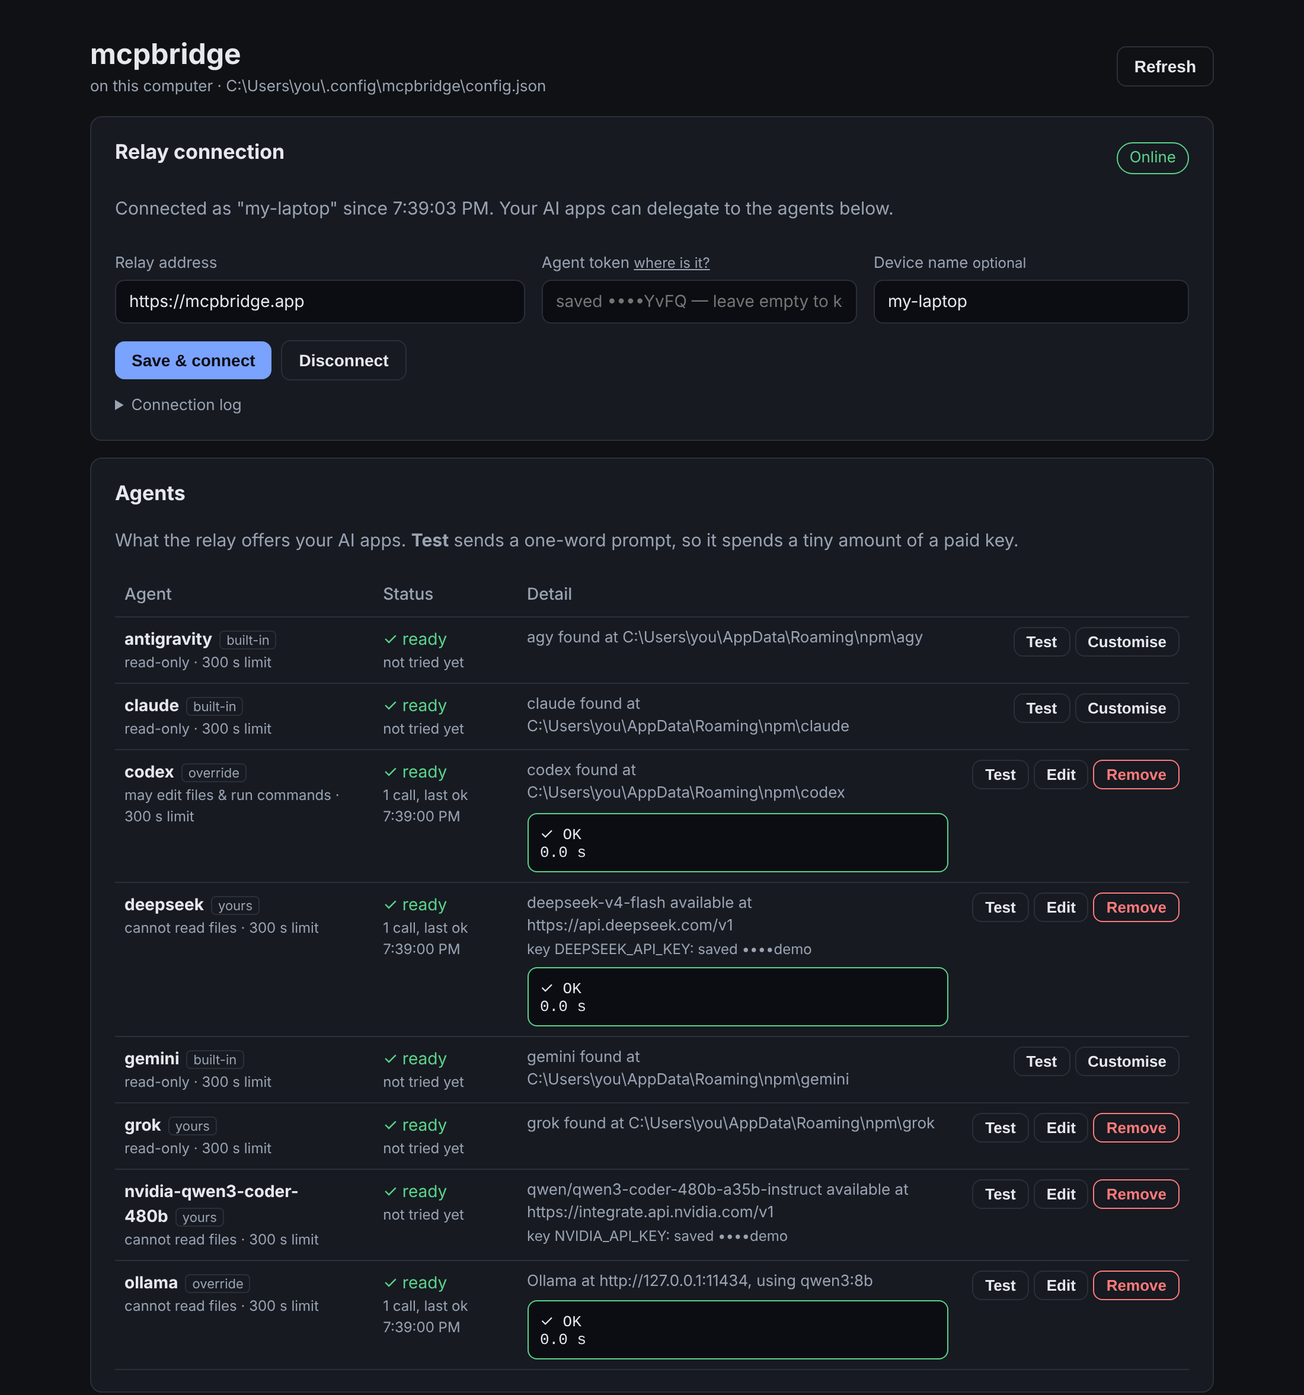
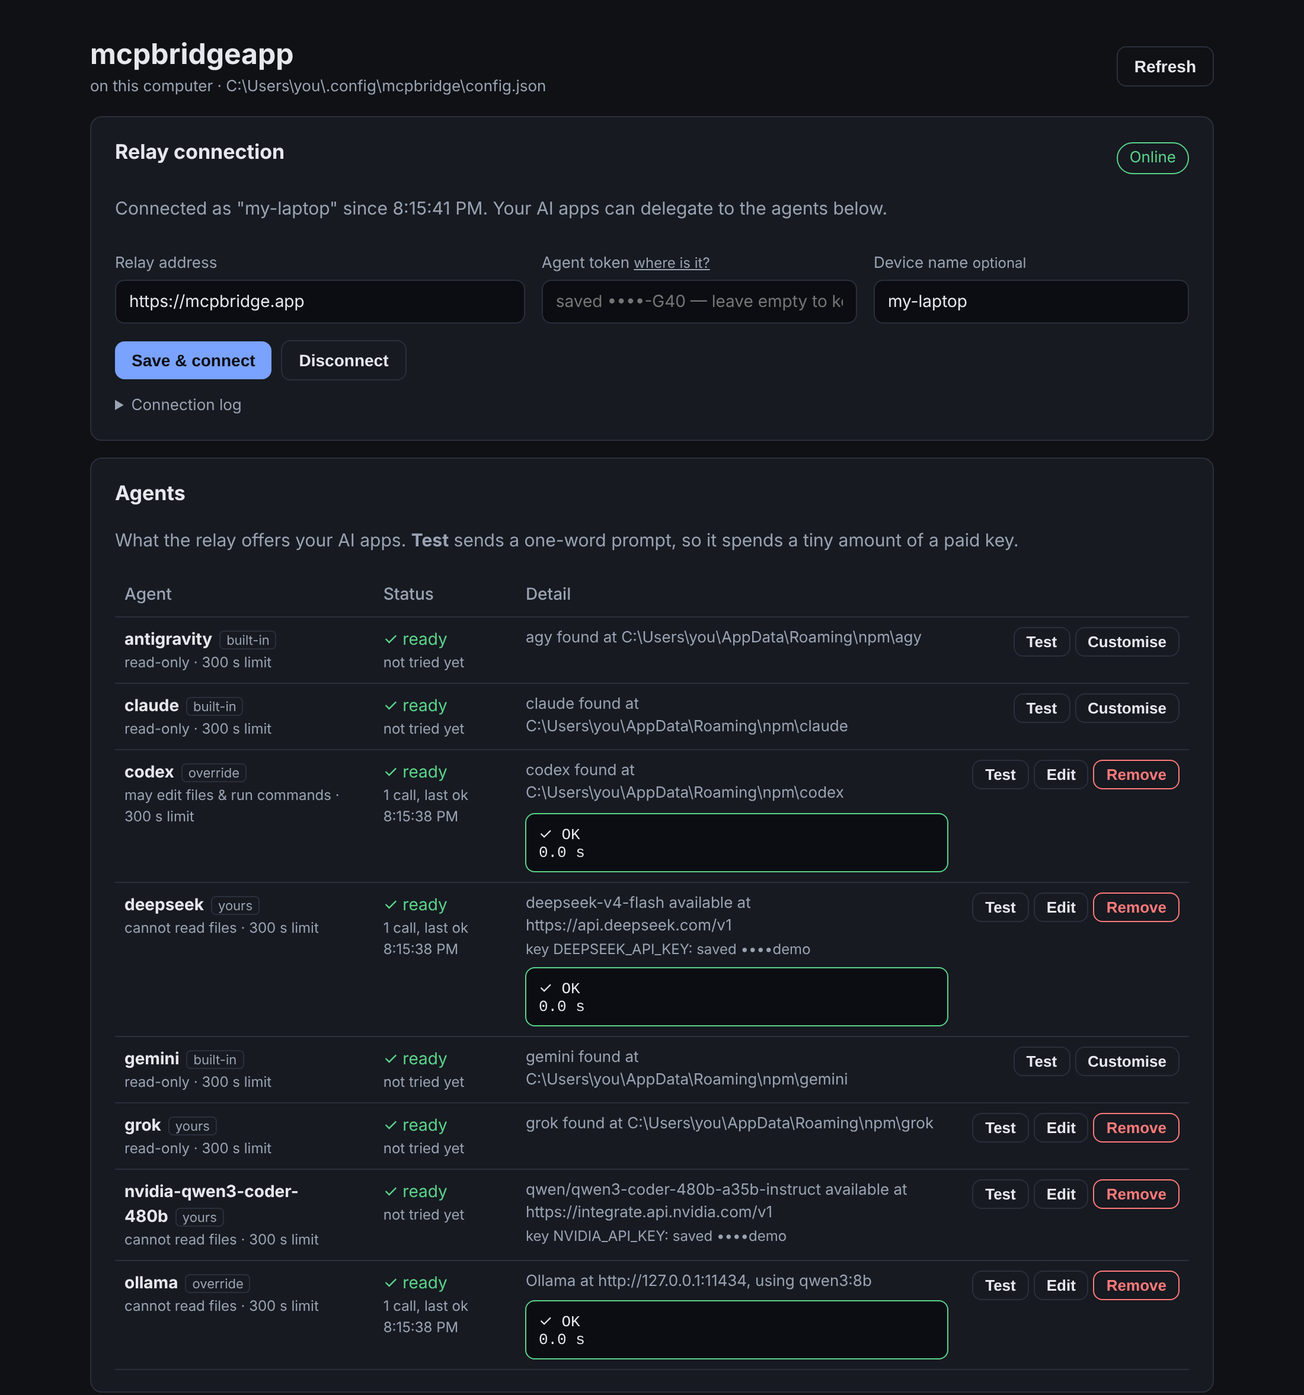
Call it mcpbridgeapp everywhere a person sees the name
The command is now mcpbridgeapp, matching the npm package
@mcpbridgeapp/cli; the README, control panel, dashboard, consent page,
MCP server name and authenticator label follow. Left as they were, so
nothing already set up breaks: the config folder ~/.config/mcpbridge,
the MCPBRIDGE_* variables, cookie names, and the mcpbridge.app domain.

Claude-Session: https://claude.ai/code/session_014u7cjksxhT86KsRtpq2heL

diff --git a/src/index.ts b/src/index.ts
@@ -21,27 +21,27 @@ function flag(argv: string[], name: string): string | undefined {
   return index === -1 ? undefined : argv[index + 1];
 }
 
-const USAGE = `mcpbridge - delegate work to another AI agent over MCP
+const USAGE = `mcpbridgeapp - delegate work to another AI agent over MCP
 
-  mcpbridge                  run as an MCP server over stdio (default)
-  mcpbridge --http [port]    run as an HTTP server on 127.0.0.1 (default port 8808)
-  mcpbridge --agents         print the configured agents and whether each is usable
-  mcpbridge --ask <agent> <prompt>
-                             delegate once from the terminal, to check an agent works
-                             before wiring it into a client
-  mcpbridge --example-config print a starter config; JSON on stdout, notes on stderr
-  mcpbridge ui [--port N] [--no-open]
-                             open a control panel on this computer: add agents and
-                             their keys, test them, connect to the relay, all without
-                             a terminal
-  mcpbridge connect --relay <url> --token <token> [--device <name>]
-                             keep this machine connected to a hosted relay, so clients
-                             anywhere can delegate to the CLIs signed in here
-  mcpbridge --help
+  mcpbridgeapp                   run as an MCP server over stdio (default)
+  mcpbridgeapp --http [port]     run as an HTTP server on 127.0.0.1 (default port 8808)
+  mcpbridgeapp --agents          print the configured agents and whether each is usable
+  mcpbridgeapp --ask <agent> <prompt>
+                                 delegate once from the terminal, to check an agent works
+                                 before wiring it into a client
+  mcpbridgeapp --example-config  print a starter config; JSON on stdout, notes on stderr
+  mcpbridgeapp ui [--port N] [--no-open]
+                                 open a control panel on this computer: add agents and
+                                 their keys, test them, connect to the relay, all without
+                                 a terminal
+  mcpbridgeapp connect --relay <url> --token <token> [--device <name>]
+                                 keep this machine connected to a hosted relay, so clients
+                                 anywhere can delegate to the CLIs signed in here
+  mcpbridgeapp --help
 
 Register it with a client once, e.g.
 
-  claude mcp add -s user mcpbridge -- npx -y @mcpbridgeapp/cli
+  claude mcp add -s user mcpbridgeapp -- npx -y @mcpbridgeapp/cli
 
 Agents come from ${configPath()} when it exists, otherwise from built-in defaults.
 `;
@@ -58,7 +58,7 @@ async function main(): Promise<void> {
     return;
   }
 
-  // keys and the relay token saved from `mcpbridge ui` work in every command and window
+  // keys and the relay token saved from `mcpbridgeapp ui` work in every command and window
   let secrets: Secrets = { keys: {} };
   try {
     secrets = loadSecrets();
@@ -76,7 +76,7 @@ async function main(): Promise<void> {
       return;
     }
     const ui = await startUi({ port, agentVersion: VERSION });
-    console.error(`mcpbridge control panel: ${ui.url}`);
+    console.error(`mcpbridgeapp control panel: ${ui.url}`);
     console.error('Keep this window open while you use it; Ctrl+C stops the page and the relay connection.');
     if (!argv.includes('--no-open')) openInBrowser(ui.url);
     const stop = () => void ui.close().then(() => process.exit(0));
@@ -112,7 +112,7 @@ async function main(): Promise<void> {
     const name = argv[askIndex + 1];
     const prompt = argv.slice(askIndex + 2).join(' ');
     if (!name || !prompt) {
-      console.error('usage: mcpbridge --ask <agent> <prompt>');
+      console.error('usage: mcpbridgeapp --ask <agent> <prompt>');
       process.exitCode = 1;
       return;
     }
@@ -136,20 +136,20 @@ async function main(): Promise<void> {
   }
 
   if (argv[0] === 'connect') {
-    // flags, then the environment, then what `mcpbridge ui` saved
+    // flags, then the environment, then what `mcpbridgeapp ui` saved
     const relay = flag(argv, '--relay') ?? process.env['MCPBRIDGE_RELAY'] ?? secrets.relay?.url;
     const token = flag(argv, '--token') ?? process.env['MCPBRIDGE_TOKEN'] ?? secrets.relay?.token;
     const device = flag(argv, '--device') ?? process.env['MCPBRIDGE_DEVICE'] ?? secrets.relay?.device;
     if (!relay || !token) {
-      console.error('usage: mcpbridge connect --relay <url> --token <token> [--device <name>]');
-      console.error('       (or set MCPBRIDGE_RELAY and MCPBRIDGE_TOKEN, or save them once in `mcpbridge ui`)');
+      console.error('usage: mcpbridgeapp connect --relay <url> --token <token> [--device <name>]');
+      console.error('       (or set MCPBRIDGE_RELAY and MCPBRIDGE_TOKEN, or save them once in `mcpbridgeapp ui`)');
       process.exitCode = 1;
       return;
     }
     const controller = new AbortController();
     process.on('SIGINT', () => controller.abort());
     process.on('SIGTERM', () => controller.abort());
-    console.error(`mcpbridge connecting to ${relay}, agents from ${source}`);
+    console.error(`mcpbridgeapp connecting to ${relay}, agents from ${source}`);
     await connectToRelay({
       relayUrl: relay,
       token,
@@ -166,8 +166,8 @@ async function main(): Promise<void> {
   // Falling through to the stdio server would look like it worked while doing nothing asked.
   const leftover = httpIndex === -1 ? argv : argv.filter((_, i) => i !== httpIndex && i !== httpIndex + 1);
   if (leftover.length > 0) {
-    console.error(`mcpbridge: unknown command or option: ${leftover.join(' ')}`);
-    console.error('Run `mcpbridge --help` for the commands this version has. An older checkout may');
+    console.error(`mcpbridgeapp: unknown command or option: ${leftover.join(' ')}`);
+    console.error('Run `mcpbridgeapp --help` for the commands this version has. An older checkout may');
     console.error('not have them yet: update it (git pull, then npm install) or use npx -y @mcpbridgeapp/cli.');
     process.exitCode = 2;
     return;
@@ -175,7 +175,7 @@ async function main(): Promise<void> {
   if (httpIndex === -1) {
     // stdio: the transport owns stdout, so every diagnostic must go to stderr or it
     // corrupts the protocol stream
-    console.error(`mcpbridge on stdio, agents from ${source}`);
+    console.error(`mcpbridgeapp on stdio, agents from ${source}`);
     await createServer(registry, tasks, limit).connect(new StdioServerTransport());
     return;
   }
@@ -214,12 +214,12 @@ async function main(): Promise<void> {
   // Loopback only: reaching this server means running the configured commands, so a
   // socket on 0.0.0.0 would hand that to the whole network.
   http.listen(port, '127.0.0.1', () => {
-    console.error(`mcpbridge on http://127.0.0.1:${port}/mcp, agents from ${source}`);
+    console.error(`mcpbridgeapp on http://127.0.0.1:${port}/mcp, agents from ${source}`);
   });
 }
 
 /**
- * JSON on stdout, guidance on stderr, so `mcpbridge --example-config > config.json` writes
+ * JSON on stdout, guidance on stderr, so `mcpbridgeapp --example-config > config.json` writes
  * a usable file while the person still sees what to fill in.
  */
 function printExampleConfig(): void {
@@ -255,7 +255,7 @@ function printExampleConfig(): void {
       'key in this file, which is easy to copy into a repo or an issue by accident.',
       '',
       'The "openai" agents have no model set, so they report unavailable until you add one.',
-      'With the key exported, `mcpbridge --agents` lists the ids that endpoint offers, where',
+      'With the key exported, `mcpbridgeapp --agents` lists the ids that endpoint offers, where',
       'the provider exposes a listing; otherwise take one from its documentation.',
       '',
     ].join('\n'),
@@ -281,6 +281,6 @@ function openInBrowser(url: string): void {
 }
 
 main().catch((error: unknown) => {
-  console.error(`mcpbridge failed to start: ${(error as Error).message}`);
+  console.error(`mcpbridgeapp failed to start: ${(error as Error).message}`);
   process.exitCode = 1;
 });

diff --git a/relay/src/web.ts b/relay/src/web.ts
@@ -158,7 +158,7 @@ function wire(form, path, after){form.addEventListener('submit',async e=>{e.prev
 `;
 
 export function page(title: string, body: string, script = ''): string {
-  return `<!doctype html><html lang="en"><head><meta charset="utf-8"><meta name="viewport" content="width=device-width,initial-scale=1"><title>${esc(title)} · mcpbridge</title><style>${STYLE}</style></head><body><main>${body}</main><script>${SCRIPT}${script}</script></body></html>`;
+  return `<!doctype html><html lang="en"><head><meta charset="utf-8"><meta name="viewport" content="width=device-width,initial-scale=1"><title>${esc(title)} · mcpbridgeapp</title><style>${STYLE}</style></head><body><main>${body}</main><script>${SCRIPT}${script}</script></body></html>`;
 }
 
 function landingPage(googleEnabled: boolean, next: string | null): string {
@@ -166,7 +166,7 @@ function landingPage(googleEnabled: boolean, next: string | null): string {
   const google = googleEnabled ? `<a class="google" href="${esc(googleHref)}">Continue with Google</a>` : '';
   const notice = next ? `<div class="panel"><b>A client is waiting to connect.</b> Sign in and you will be asked whether to allow it.</div>` : '';
   return page('Sign in', `
-<h1>mcpbridge</h1>
+<h1>mcpbridgeapp</h1>
 <p class="sub">Delegate work between your AI agents from anywhere — the work runs on your own machine, where they are signed in.</p>${notice}
 <div class="row">
   <div class="panel"><h2 style="margin-top:0">Sign in</h2>
@@ -209,7 +209,7 @@ const STATUS_LABEL: Record<string, string> = {
 /**
  * One agent, as a table row on a wide screen and a card on a phone (the "stack" table
  * becomes blocks under 640px). The newer fields -- status, what it may do, its limit --
- * are shown when the connected machine's mcpbridge reports them; an older one does not.
+ * are shown when the connected machine's mcpbridgeapp reports them; an older one does not.
  */
 function agentRow(a: Summary['device'] extends infer D ? D extends { agents: (infer A)[] } ? A : never : never): string {
   const label = a.available ? 'available' : (a.status && STATUS_LABEL[a.status]) || 'unavailable';
@@ -261,24 +261,24 @@ function dashboardPage(me: Summary, base: string, googleEnabled: boolean): strin
 <p class="muted">No token to paste: claude.ai signs in here and asks you to allow it.</p>
 <ol>
   <li>In claude.ai open <b>Customize → Connectors</b> and click <b>Add custom connector</b>.</li>
-  <li>Name it <b>mcpbridge</b>, and for the MCP server URL enter <code>${esc(host)}/mcp</code>. Leave the OAuth client fields empty (or choose <i>Use Claude's published identity</i> / <i>Register automatically</i> if asked).</li>
+  <li>Name it <b>mcpbridgeapp</b>, and for the MCP server URL enter <code>${esc(host)}/mcp</code>. Leave the OAuth client fields empty (or choose <i>Use Claude's published identity</i> / <i>Register automatically</i> if asked).</li>
   <li>Click <b>Add</b>, then <b>Connect</b>. You land back here, signed in, with an <i>Allow</i> button.</li>
-  <li>In any chat open the <b>+</b> menu → <b>Connectors</b> and switch mcpbridge on. The same connector works in the Claude desktop app and on the phone once you are signed in there.</li>
+  <li>In any chat open the <b>+</b> menu → <b>Connectors</b> and switch mcpbridgeapp on. The same connector works in the Claude desktop app and on the phone once you are signed in there.</li>
 </ol>
 <div class="panel"><h2 style="margin-top:0">Connected apps</h2>${connectedApps(me)}</div>
 <h2>Connect your clients</h2>
 <p class="muted">Claude Code — from any folder, then run <code>/mcp</code> inside Claude Code to sign in:</p>
-<pre>claude mcp add -s user --transport http mcpbridge ${esc(host)}/mcp</pre>
+<pre>claude mcp add -s user --transport http mcpbridgeapp ${esc(host)}/mcp</pre>
 <p class="muted">Or with a client token instead of signing in:</p>
-<pre>claude mcp add -s user --transport http mcpbridge ${esc(host)}/mcp --header "Authorization: Bearer <span data-fill="client">&lt;client token&gt;</span>"</pre>
+<pre>claude mcp add -s user --transport http mcpbridgeapp ${esc(host)}/mcp --header "Authorization: Bearer <span data-fill="client">&lt;client token&gt;</span>"</pre>
 <p class="muted">Claude Desktop — add to <code>claude_desktop_config.json</code>:</p>
-<pre>{ "mcpServers": { "mcpbridge": { "command": "npx", "args": ["-y", "mcp-remote", "${esc(host)}/mcp", "--header", "Authorization: Bearer <span data-fill="client">&lt;client token&gt;</span>"] } } }</pre>
+<pre>{ "mcpServers": { "mcpbridgeapp": { "command": "npx", "args": ["-y", "mcp-remote", "${esc(host)}/mcp", "--header", "Authorization: Bearer <span data-fill="client">&lt;client token&gt;</span>"] } } }</pre>
 <p class="muted">Cursor — <code>.cursor/mcp.json</code>:</p>
-<pre>{ "mcpServers": { "mcpbridge": { "url": "${esc(host)}/mcp", "headers": { "Authorization": "Bearer <span data-fill="client">&lt;client token&gt;</span>" } } } }</pre>
+<pre>{ "mcpServers": { "mcpbridgeapp": { "url": "${esc(host)}/mcp", "headers": { "Authorization": "Bearer <span data-fill="client">&lt;client token&gt;</span>" } } } }</pre>
 `;
 
   return page('Dashboard', `
-<h1>mcpbridge</h1><div class="sub">${esc(me.username)}${me.googleLinked ? ' · Google linked' : ''}${googleEnabled && !me.googleLinked ? ' · <a href="/auth/google">link Google</a>' : ''} · <form method="post" action="/logout" style="display:inline"><button class="secondary" style="margin:0;padding:2px 8px">Sign out</button></form></div>
+<h1>mcpbridgeapp</h1><div class="sub">${esc(me.username)}${me.googleLinked ? ' · Google linked' : ''}${googleEnabled && !me.googleLinked ? ' · <a href="/auth/google">link Google</a>' : ''} · <form method="post" action="/logout" style="display:inline"><button class="secondary" style="margin:0;padding:2px 8px">Sign out</button></form></div>
 <div class="panel"><h2 style="margin-top:0">Your machine</h2>${device}</div>
 <div class="row">${tokenRow('agent', 'Agent token', 'Lets a machine serve your account. Keep it on that machine only.')}${tokenRow('client', 'Client token', 'Lets a client delegate as you. Put it in Claude Code, Desktop or Cursor.')}</div>
 <div class="panel"><h2 style="margin-top:0">2-step verification</h2>${twoFactor}</div>

diff --git a/relay/src/oauth.ts b/relay/src/oauth.ts
@@ -50,7 +50,7 @@ export function protectedResourceMetadata(base: string) {
     authorization_servers: [base],
     bearer_methods_supported: ['header'],
     scopes_supported: ['mcp'],
-    resource_name: 'mcpbridge',
+    resource_name: 'mcpbridgeapp',
     resource_documentation: `${base}/`,
   };
 }
@@ -398,7 +398,7 @@ function consentPage(username: string, client: ResolvedClient, redirectUri: stri
     ? `<p class="warn">This client receives its code on <b>${esc(target.host)}</b> — a program on your own computer. Only approve if you just started that connection yourself: any local program could claim that address.</p>`
     : `<p class="muted">After you approve, you go back to <b>${esc(target.host)}</b>.</p>`;
   return page('Approve a connection', `
-<h1>Allow <b>${esc(client.name)}</b> to use your mcpbridge?</h1>
+<h1>Allow <b>${esc(client.name)}</b> to use your mcpbridgeapp?</h1>
 <p class="sub">Signed in as ${esc(username)}</p>
 <div class="panel">
   <p>It will be able to, as you:</p>
@@ -435,7 +435,7 @@ async function token(req: IncomingMessage, res: ServerResponse, ctx: ApiContext,
   res.setHeader('Cache-Control', 'no-store');
   res.setHeader('Pragma', 'no-cache');
   const fail = (status: number, error: string, description: string) => {
-    if (error === 'invalid_client') res.setHeader('WWW-Authenticate', 'Basic realm="mcpbridge"');
+    if (error === 'invalid_client') res.setHeader('WWW-Authenticate', 'Basic realm="mcpbridgeapp"');
     sendJson(res, status, { error, error_description: description });
   };
 

diff --git a/relay/src/mcp.ts b/relay/src/mcp.ts
@@ -82,13 +82,13 @@ function forward(hub: DeviceHub, userId: string, tool: string, args: Record<stri
 
 function buildServer(userId: string, hub: DeviceHub): McpServer {
   const server = new McpServer(
-    { name: 'mcpbridge-relay', version: '0.1.0' },
+    { name: 'mcpbridgeapp-relay', version: '0.1.0' },
     {
       instructions:
         'MCP Bridge relays work to AI agents installed on the account owner\'s own machine, ' +
         'where those agents are signed in. Call list_agents first — it also says whether that ' +
         'machine is connected right now; if "offline" is true, nothing can be delegated until ' +
-        'the owner runs `mcpbridge connect` there. Then ask_agent to delegate and get the answer ' +
+        'the owner runs `mcpbridgeapp connect` there. Then ask_agent to delegate and get the answer ' +
         'in one call. The agent cannot see this conversation, so write a self-contained prompt, ' +
         'and pass workingDirectory for anything about files on that machine. Agents are read-only ' +
         'unless list_agents says otherwise ("writesFiles", "runsCommands"): shape the task to what ' +

diff --git a/src/ui/server.ts b/src/ui/server.ts
@@ -46,7 +46,7 @@ type ConnectionState =
   | { state: 'reconnecting'; reason: string };
 
 /**
- * The local control panel: everything `mcpbridge` asks of a terminal -- adding an agent,
+ * The local control panel: everything `mcpbridgeapp` asks of a terminal -- adding an agent,
  * saving its key, checking it answers, keeping this machine connected to the relay --
  * done from a page on this machine.
  *
@@ -388,7 +388,7 @@ export async function startUi(options: UiOptions): Promise<UiServer> {
       }
       if (!same(cookieFrom(req), key)) {
         res.writeHead(403, { 'Content-Type': 'text/plain; charset=utf-8' })
-          .end('open the link that `mcpbridge ui` printed in the terminal; it carries this launch\'s key');
+          .end('open the link that `mcpbridgeapp ui` printed in the terminal; it carries this launch\'s key');
         return;
       }
       const html = uiPage();

diff --git a/src/agents/registry.ts b/src/agents/registry.ts
@@ -187,7 +187,7 @@ function judge(agent: Agent, result: AgentResult): AgentResult {
       ...result,
       diagnostics:
         `${result.diagnostics}\n\nThis CLI refuses directories it has not been told to trust when it runs ` +
-        'unattended. mcpbridge does not trust them on its behalf, because the directory is chosen by ' +
+        'unattended. mcpbridgeapp does not trust them on its behalf, because the directory is chosen by ' +
         'whichever client made the call. If you trust the projects your clients send it to, set the ' +
         'variable the CLI names under this agent\'s "env" in config.json, e.g. ' +
         '"env": { "GEMINI_CLI_TRUST_WORKSPACE": "true" } for gemini.',

diff --git a/src/ui/page.ts b/src/ui/page.ts
@@ -10,13 +10,13 @@ export function uiPage(): string {
 <head>
 <meta charset="utf-8">
 <meta name="viewport" content="width=device-width,initial-scale=1">
-<title>mcpbridge · this computer</title>
+<title>mcpbridgeapp · this computer</title>
 <style>${STYLE}</style>
 </head>
 <body>
 <main>
   <header>
-    <div><h1>mcpbridge</h1><div class="sub">on this computer · <span id="configFile"></span></div></div>
+    <div><h1>mcpbridgeapp</h1><div class="sub">on this computer · <span id="configFile"></span></div></div>
     <button class="ghost" id="refresh" type="button">Refresh</button>
   </header>
   <div id="configError" class="banner bad" hidden></div>

diff --git a/relay/test/totp.test.ts b/relay/test/totp.test.ts
@@ -38,9 +38,9 @@ test('tolerates a code typed with a space', () => {
 
 test('builds an otpauth URI an authenticator app will scan', () => {
   const uri = otpauthUri('JBSWY3DPEHPK3PXP', 'zee@example.com');
-  assert.ok(uri.startsWith('otpauth://totp/mcpbridge%3Azee%40example.com?'));
+  assert.ok(uri.startsWith('otpauth://totp/mcpbridgeapp%3Azee%40example.com?'));
   assert.match(uri, /secret=JBSWY3DPEHPK3PXP/);
-  assert.match(uri, /issuer=mcpbridge/);
+  assert.match(uri, /issuer=mcpbridgeapp&/);
 });
 
 test('recovery codes are distinct and normalise however they are typed', () => {

diff --git a/relay/test/relay.test.ts b/relay/test/relay.test.ts
@@ -109,7 +109,7 @@ test('with no device connected, every tool explains how to connect one', async (
 
   const listed = await mcp.call<{ offline: boolean; diagnostics: string }>('list_agents', {});
   assert.equal(listed.offline, true);
-  assert.match(listed.diagnostics, /mcpbridge connect/);
+  assert.match(listed.diagnostics, /mcpbridgeapp connect/);
 
   const asked = await mcp.call<{ succeeded: boolean; offline: boolean; diagnostics: string }>('ask_agent', { agent: 'echoer', prompt: 'hi' });
   assert.equal(asked.succeeded, false);

diff --git a/relay/src/totp.ts b/relay/src/totp.ts
@@ -81,7 +81,7 @@ export function verifyTotp(secretBase32: string, code: string, nowMs = Date.now(
   return null;
 }
 
-export function otpauthUri(secretBase32: string, account: string, issuer = 'mcpbridge'): string {
+export function otpauthUri(secretBase32: string, account: string, issuer = 'mcpbridgeapp'): string {
   const label = encodeURIComponent(`${issuer}:${account}`);
   const params = new URLSearchParams({
     secret: secretBase32, issuer, algorithm: 'SHA1', digits: String(TOTP_DIGITS), period: String(TOTP_STEP_SECONDS),

diff --git a/src/agents/openai.ts b/src/agents/openai.ts
@@ -92,7 +92,7 @@ export class OpenAiAgent implements Agent {
     if (!key) return failed(this.name, this.missingKeyDetail(), Date.now() - started);
     if (!this.config.model) {
       return failed(this.name,
-        `no model set for "${this.name}". Add "model" to its config; run \`mcpbridge --agents\` to ` +
+        `no model set for "${this.name}". Add "model" to its config; run \`mcpbridgeapp --agents\` to ` +
         `see what this endpoint offers.`, Date.now() - started);
     }
 

diff --git a/relay/src/index.ts b/relay/src/index.ts
@@ -174,7 +174,7 @@ async function main(): Promise<void> {
     );
   }
   const bound = await relay.listen(port, host);
-  console.error(`mcpbridge relay on http://${host}:${bound.port}${publicUrl ? ` (public: ${publicUrl})` : ''}`);
+  console.error(`mcpbridgeapp relay on http://${host}:${bound.port}${publicUrl ? ` (public: ${publicUrl})` : ''}`);
 
   const shutdown = () => void relay.close().then(() => process.exit(0));
   process.on('SIGINT', shutdown);
